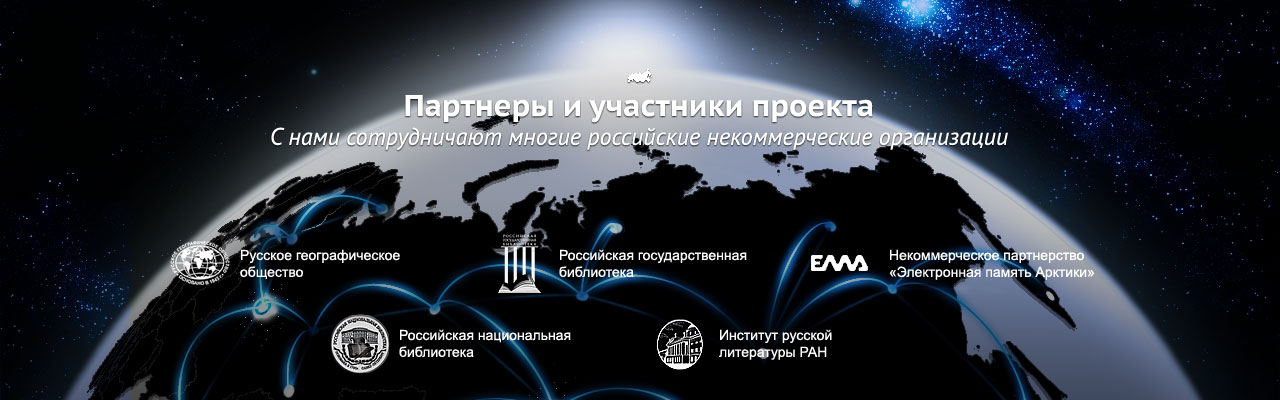
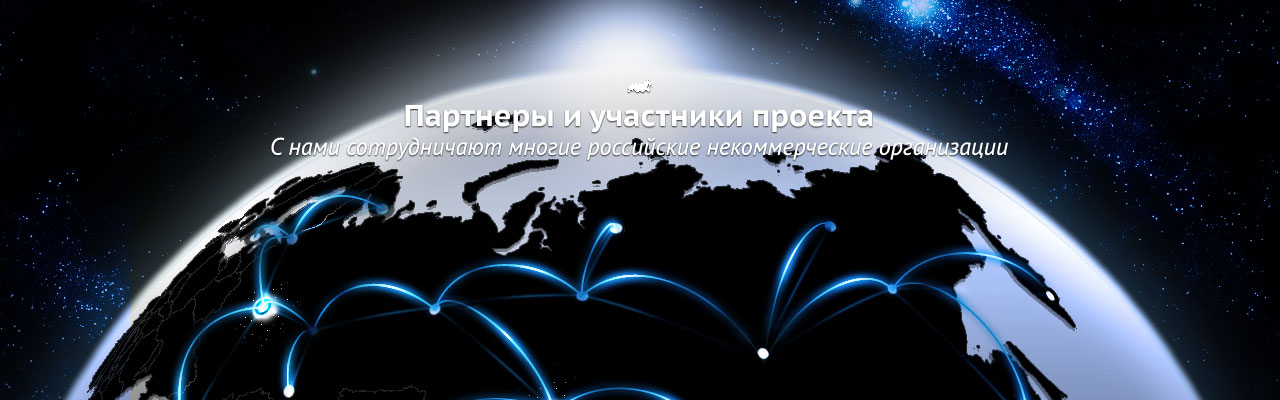
Оверлеи для слайдов

diff --git a/index.html b/index.html
@@ -78,13 +78,16 @@
 			<div class="slide">
 				<div class="allpics">
 					<a href="http://www.emaproject.com/about.html" class="active" style="background: url(images/slide.jpg) no-repeat center;">
-						<img src="images/slide-2.jpg" alt="" />
+						<img src="images/slide-1-overlay.jpg" alt="" />
 					</a>
 					<a href="http://www.emaproject.com/about.html"  style="background: url(images/slide-2.jpg) no-repeat center;">
+						<img src="images/slide-2-overlay.png" alt="" />
 					</a>
 					<a href="http://www.emaproject.com/about.html" style="background: url(images/slide-3.jpg) no-repeat center;">
+						<img src="images/slide-3-overlay.png" alt="" />
 					</a>
 					<a href="http://www.emaproject.com/about.html" style="background: url(images/slide-4.jpg) no-repeat center;">
+						<img src="images/slide-4-overlay.png" alt="" />
 					</a>
 					<a href="http://www.emaproject.com/about.html" style="background: url(images/slide-5.jpg) no-repeat center;">
 					</a>
